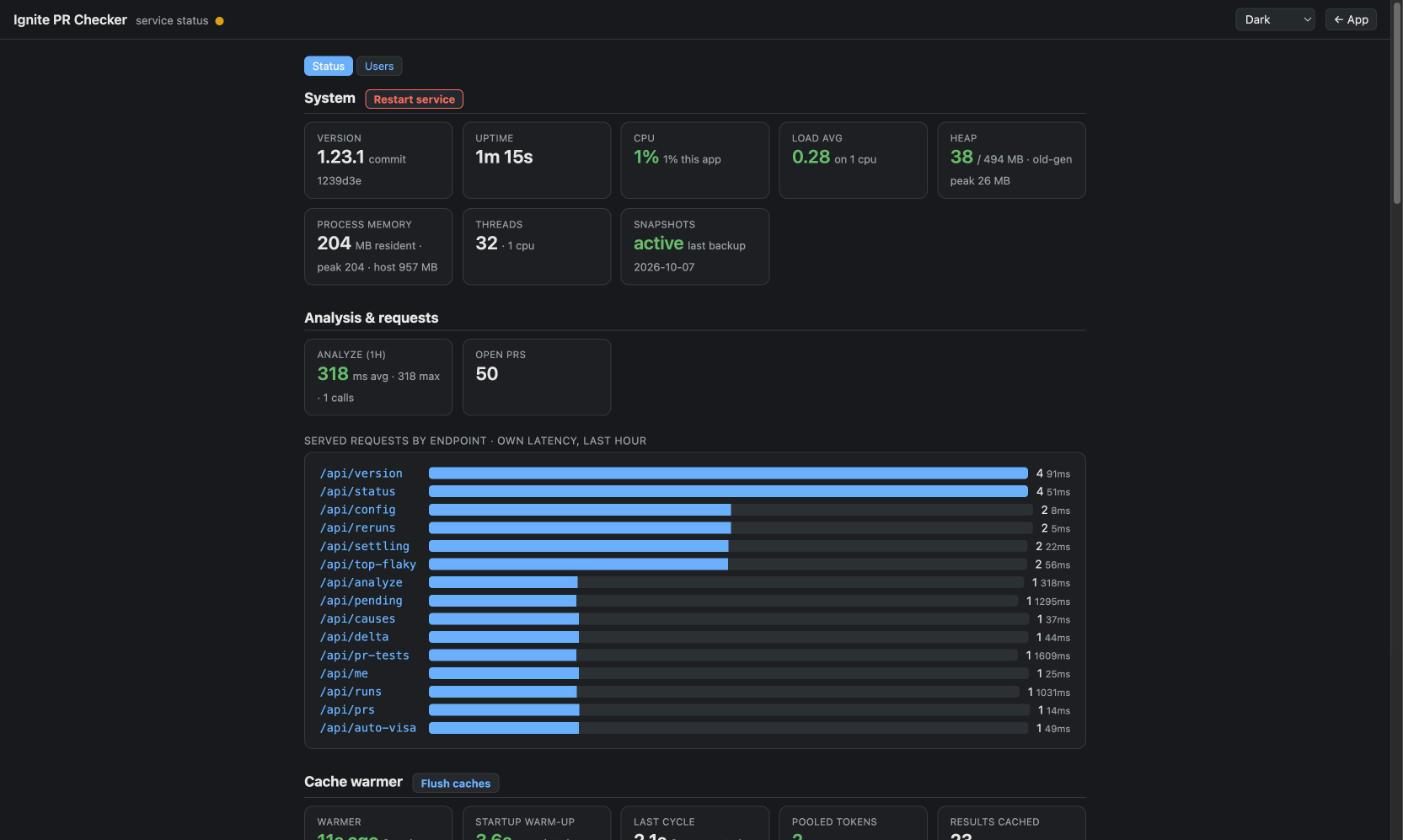
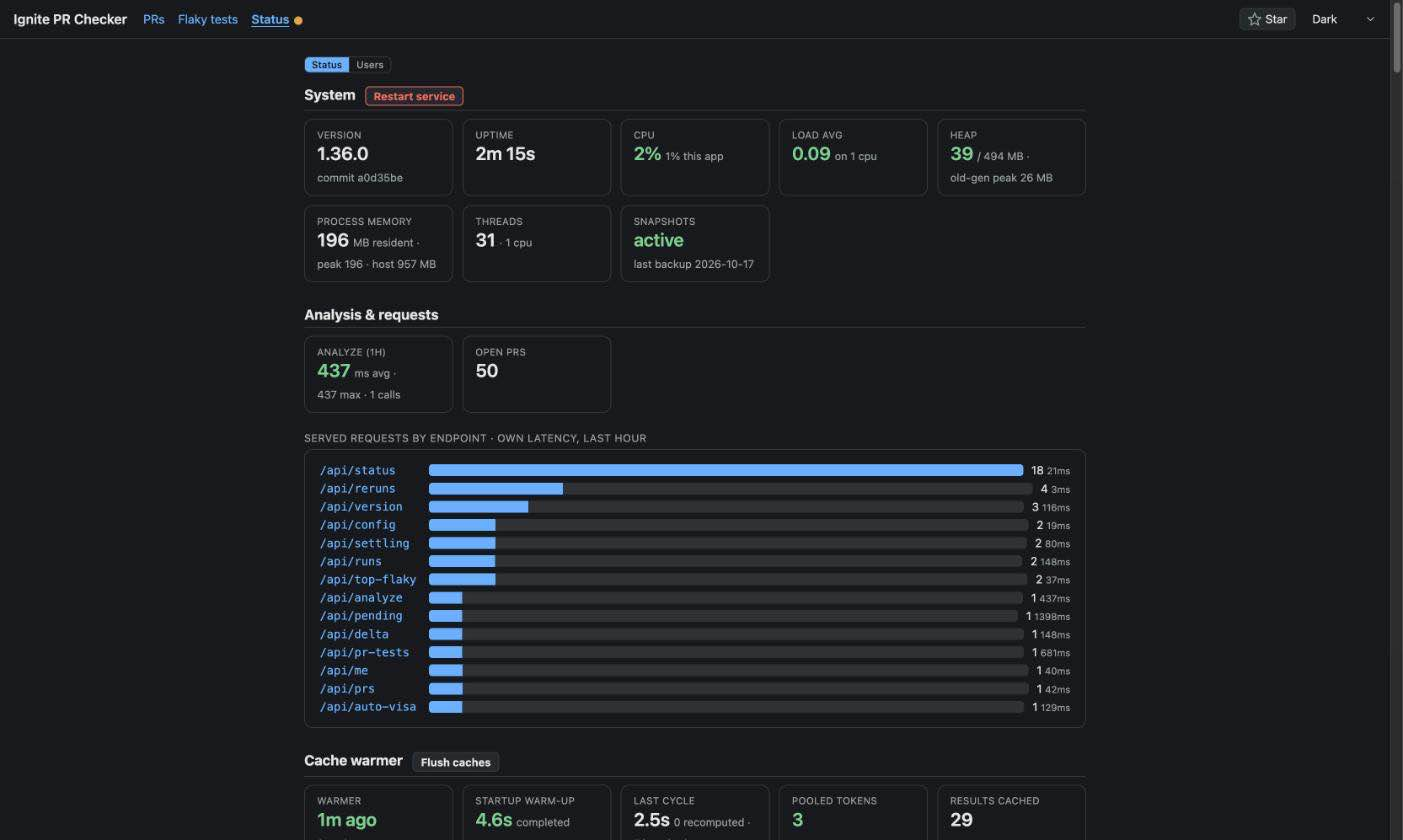
Show the current pages in the docs screenshots (#288)
The PR page, the flaky board and the status page changed in v1.31.0-v1.36.0;
the screenshots and their captions now show v1.36.0.

diff --git a/docs/features.ru.md b/docs/features.ru.md
@@ -171,7 +171,7 @@
 
 ## Прочитать вердикт
 
-![Страница PR #13655: 62 битые сьюты в трёх строках, затем блокеры, каждый на одном прогоне](img/pr-page.jpg)
+![Страница PR #13696: карточка вердикта «1 blocker in 1 suite» и карточки под ней](img/pr-page.jpg)
 
 Страница отвечает на один вопрос: какие тесты сломал этот PR? Первой на него отвечает карточка вердикта, словами
 комментария в PR и визы. [Карточки](#карточки-на-странице-pr) под ней идут от того, что делает прогон ненадёжным
@@ -440,7 +440,7 @@ GitHub — аккаунта приложения.
 
 ## Доска флаки (`/flaky.html`)
 
-![Доска флаки: тесты по частоте падений на master, у каждого его упавшие прогоны master](img/flaky-board.jpg)
+![Доска флаки: тесты отсортированы по тому, как часто они падают на master](img/flaky-board.jpg)
 
 - Тесты, которые падают на master: чекер не вменяет их ни одному PR, но они падают в PR, которые их не ломали. Первой
   идёт группа **Flaky on master**: тесты, которые в одних прогонах master падают, а в других проходят. За ней

diff --git a/docs/features.md b/docs/features.md
@@ -174,7 +174,7 @@ and the visa.
 
 ## Reading the verdict
 
-![The PR page of #13655: 62 broken suites in three rows, then blockers that rest on one run each](img/pr-page.jpg)
+![The PR page of #13696: the verdict card "1 blocker in 1 suite" and the cards under it](img/pr-page.jpg)
 
 The page answers one question: which tests did this PR break? The verdict card answers it first, in the words of the
 PR comment and the visa. The [cards](#cards-on-the-pr-page) under it go from what makes the run unreliable (suites that
@@ -433,7 +433,7 @@ from its own GitHub account, the app account.
 
 ## The flaky board (`/flaky.html`)
 
-![The flaky board: tests ranked by their master fail rate, each with its failed master runs](img/flaky-board.jpg)
+![The flaky board: tests ranked by how often they fail on master](img/flaky-board.jpg)
 
 - Tests that fail on master: the checker does not blame them on any PR, yet they fail in PRs that did not break them.
   **Flaky on master** comes first: tests that fail some master runs and pass others. **Broken on master** follows:

diff --git a/README.ru.md b/README.ru.md
@@ -15,7 +15,7 @@ Ignite PR Checker отвечает контрибьютору [Apache Ignite](ht
 ➡ **[Тур по возможностям](docs/features.ru.md)**. Он начинается со [словаря вердикта](docs/features.ru.md#словарь-вердикта):
 что значит каждая метка и что с ней делать.
 
-![Страница PR: битые сьюты, сгруппированные по причине, затем блокеры, у каждого причина под ним](docs/img/pr-page.jpg)
+![Страница PR: сначала вердикт, затем битые сьюты, блокеры и тесты, которые недавно начали падать](docs/img/pr-page.jpg)
 
 ## Что он делает
 

diff --git a/README.md b/README.md
@@ -15,7 +15,7 @@ few JSON files on disk.
 ➡ **[Feature tour](docs/features.md)**. It starts with the [verdict glossary](docs/features.md#verdict-glossary): what
 each label means and what to do about it.
 
-![The PR page: broken suites grouped by cause, then the blockers, each with the reason under it](docs/img/pr-page.jpg)
+![The PR page: the verdict comes first, then the broken suites, the blockers and the tests that recently started failing](docs/img/pr-page.jpg)
 
 ## What it does
 
